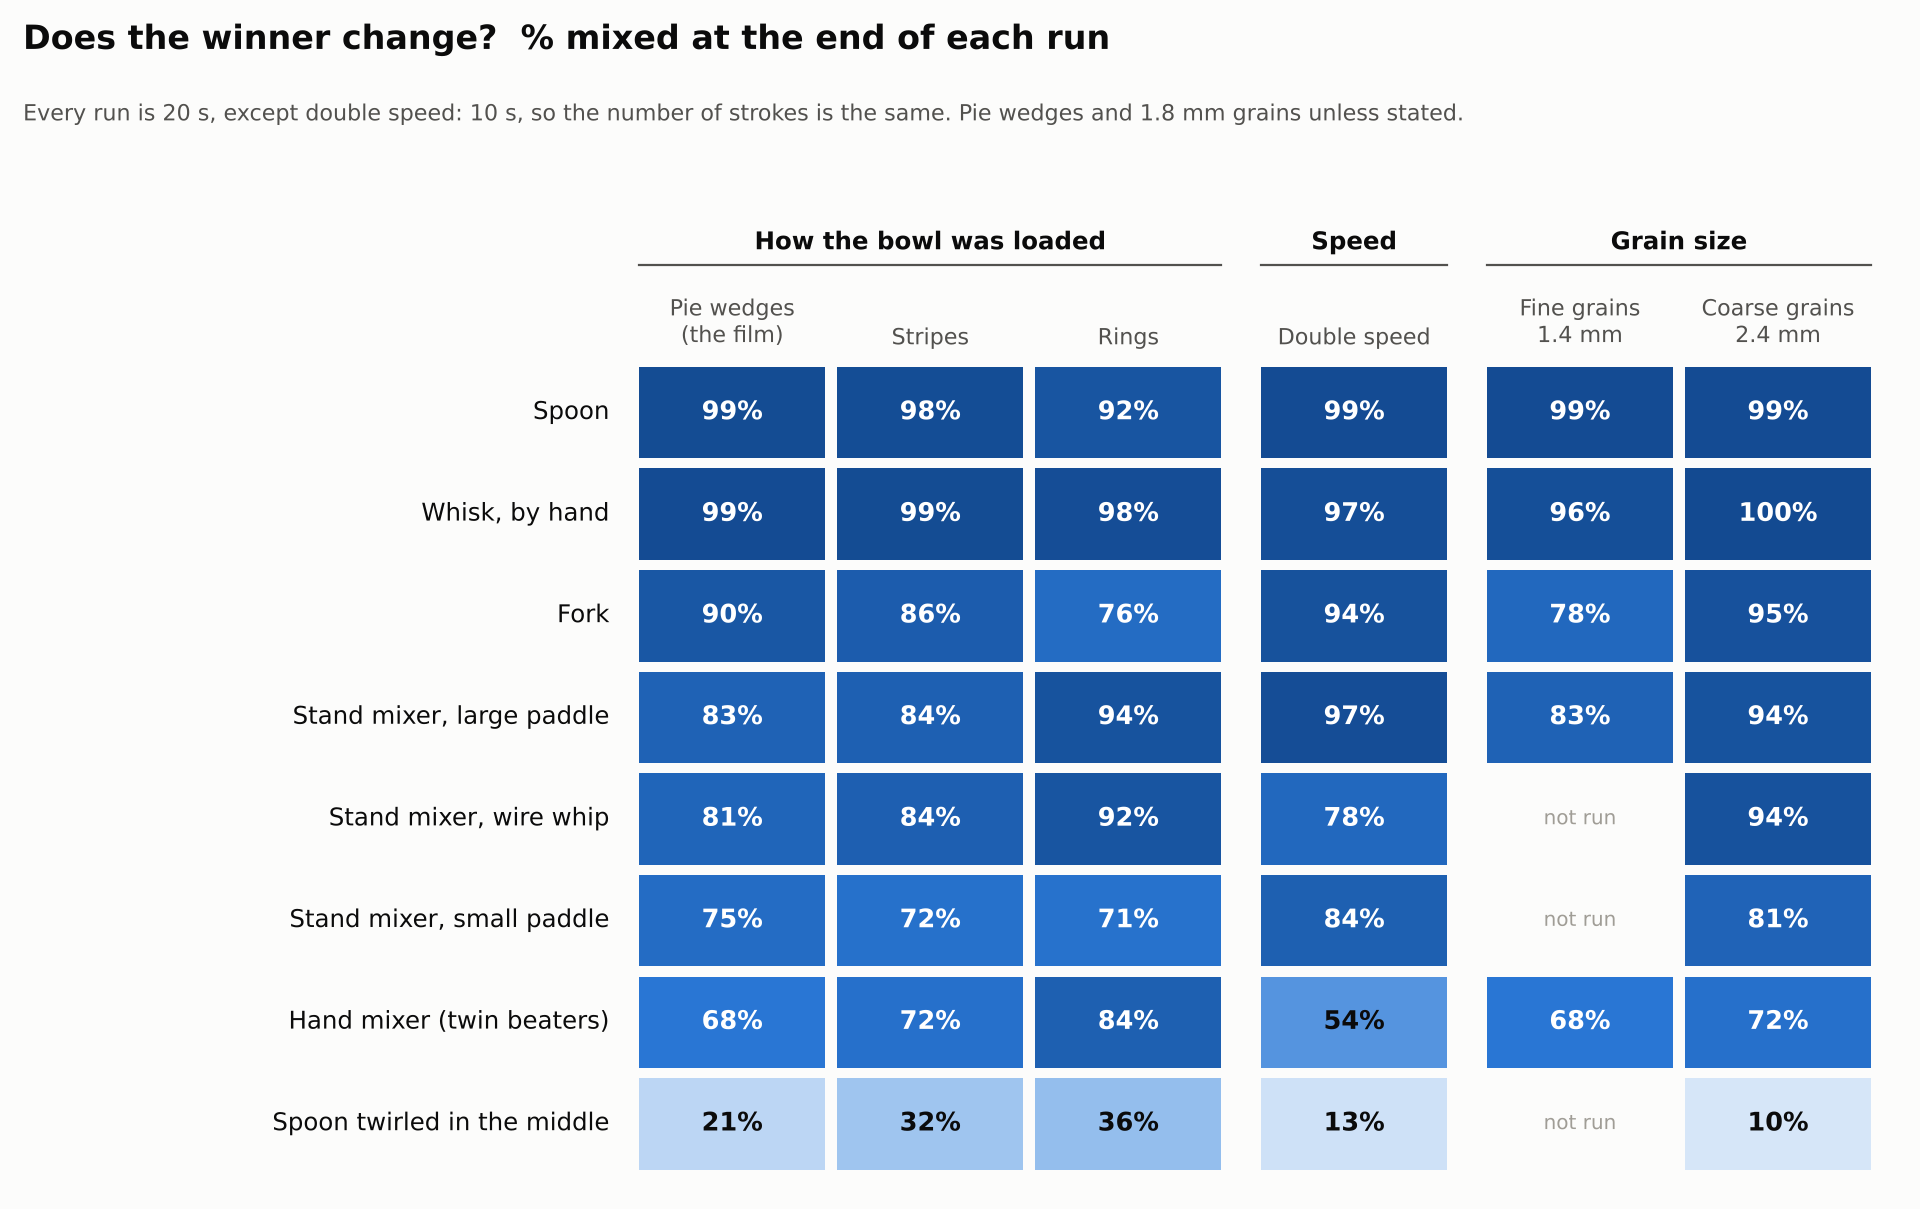
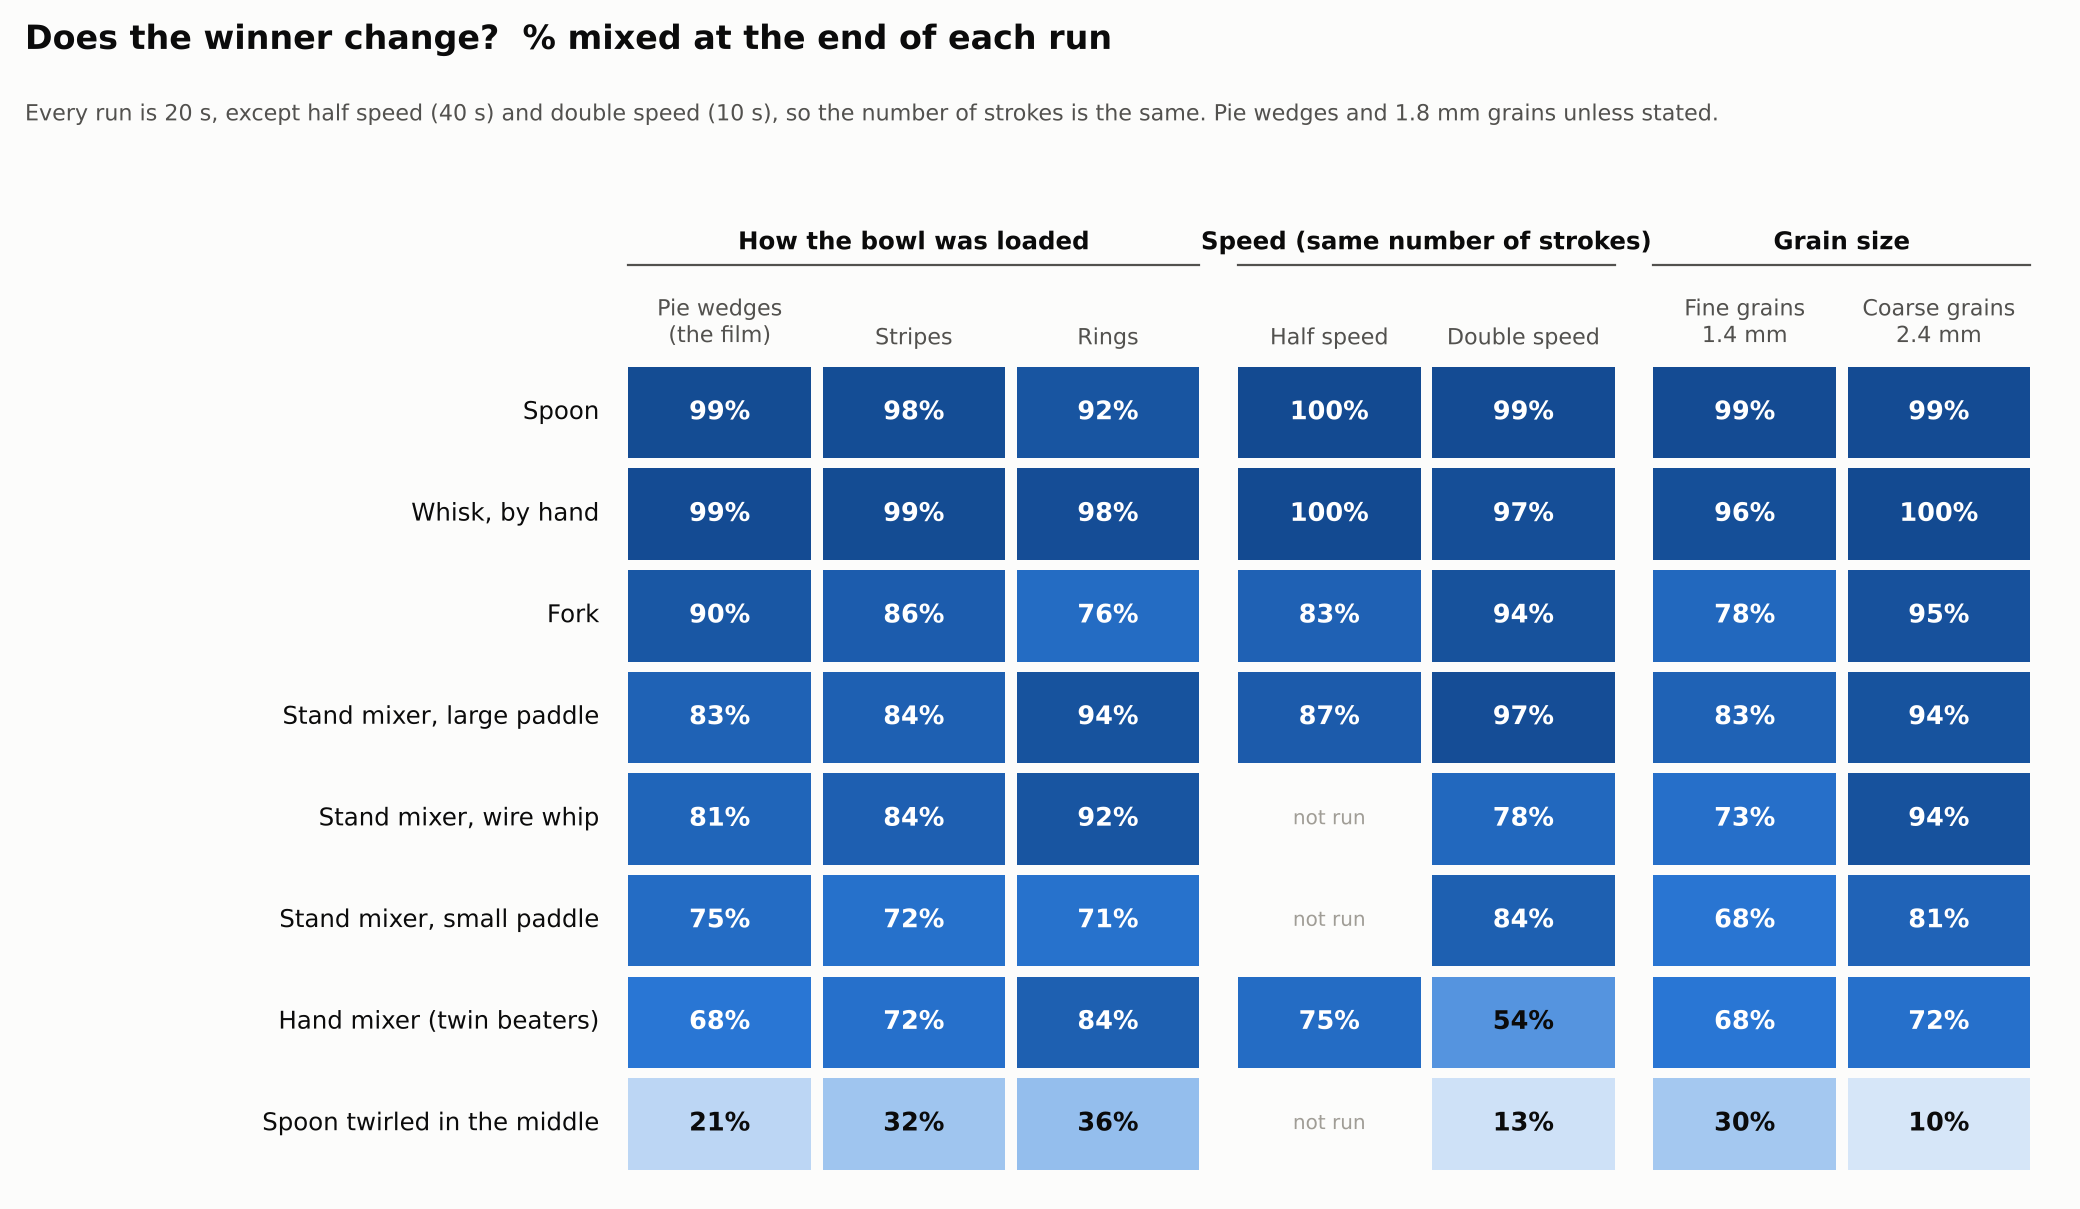
powder_mixer: half-speed and remaining fine-grain runs in the sensitivity table
Claude-Session: https://claude.ai/code/session_01S7EUN4CGcs5VcH7QMy88q6

diff --git a/videos/powder_mixer/README.md b/videos/powder_mixer/README.md
@@ -185,7 +185,7 @@ deep instead of 15 mm.
 Eight ways of mixing dry ingredients, each given the same bowl of six powders.
 
 ```bash
-python tournament.py --set base load speed grain      # about 2.5 h on 4 cores
+python tournament.py --set base load speed half grain      # about 3.5 h on 4 cores
 ```
 
 ```bash
@@ -251,14 +251,17 @@ powder in or out, so it was not tested as a contestant.
 - **Loading.** The hand whisk is 98 to 99% whatever the loading; the spoon dips
   to 92% on rings. Rings (which need powder moved in and out) are where the
   stand mixer shines: the large paddle goes from 83% to 94%.
-- **Speed.** Hand tools give the same result per stroke at double speed (spoon
-  99%, whisk 97%), as the literature says. The machines do not: the large
-  paddle improves to 97%, because at that speed it starts throwing powder, and
-  the hand mixer drops to 54%, because its beaters fling powder away from
-  themselves.
-- **Grain size.** The top two are unchanged from 1.4 to 2.4 mm. The fork gets
-  worse with finer grains (95, 90, 78%): more of the powder slips between the
-  tines. The stand-mixer tools do better with coarse grains.
+- **Speed.** Hand tools give the same result per stroke at half and double
+  speed (spoon 100% and 99%, whisk 100% and 97%; 90% after 11 to 14 strokes at
+  every speed for the spoon), as the literature says. The machines do not. The
+  hand mixer gets steadily worse as it speeds up (75, 68, 54%), because its
+  beaters fling powder away from themselves. The large paddle reads 87, 83, 97%:
+  best at double speed, where it starts throwing powder across the bowl. Half
+  speed was run for five of the eight tools.
+- **Grain size.** The top two are unchanged from 1.4 to 2.4 mm. The fork and the
+  wire whip get worse with finer grains (fork 95, 90, 78%; wire whip 94, 81,
+  73%): more of the powder slips between tines and wires. All the stand-mixer
+  tools do better with coarse grains.
 
 ### Limits
 
